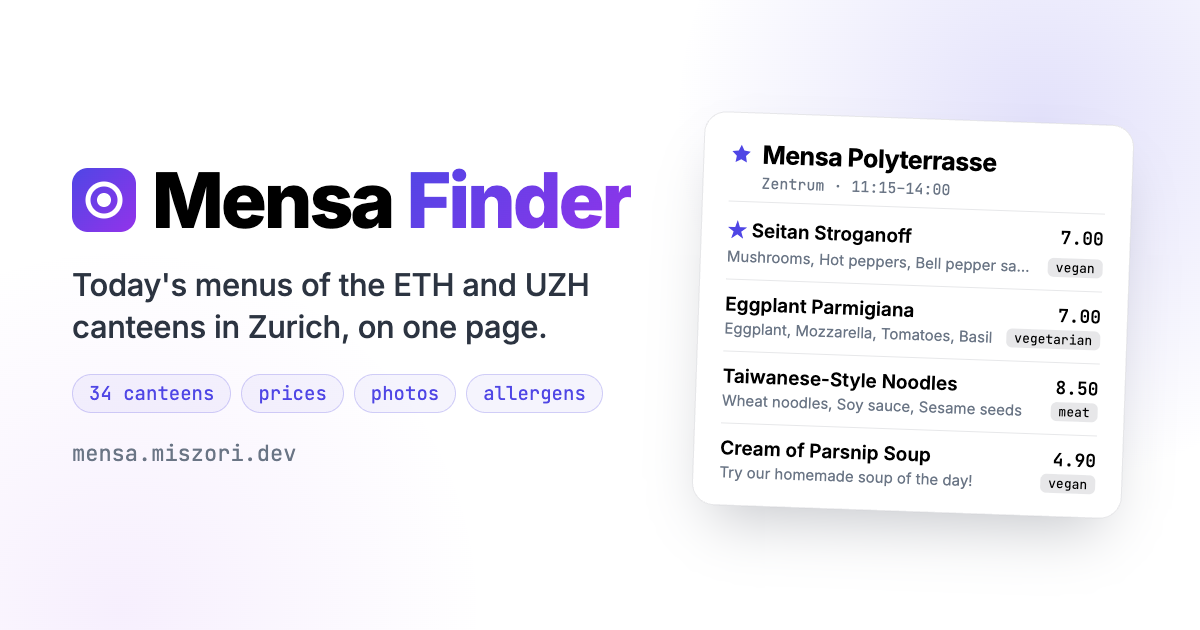
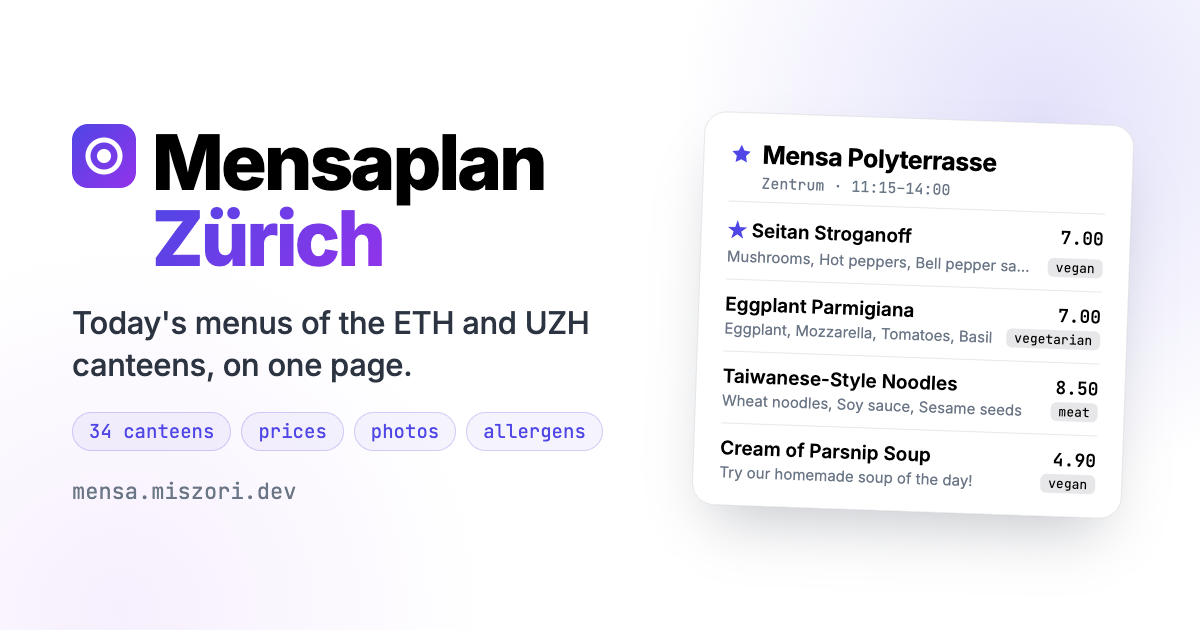
feat!: rebrand as Mensaplan Zürich
- New name in the header (with the plate icon), page title, link-preview
  image, README and demo GIF
- Go module, binary and Docker service renamed to mensaplan; Caddy proxies
  to mensaplan:8080 and FOOD2050 sees User-Agent Mensaplan/1.0
- The settings cookie is now "mp", so saved settings reset once

BREAKING CHANGE: the Docker service is renamed; deploy with
`docker compose up --build -d --remove-orphans`.

diff --git a/internal/web/static/app.js b/internal/web/static/app.js
@@ -1,11 +1,11 @@
-// Mensa Finder in the browser.
+// Mensaplan Zürich in the browser.
 //
 // The server already renders the whole page with every menu of the day. This script only:
 //   1. filters instantly (search, lunch/dinner, and the diet, campus, allergen and "open now"
 //      settings) by hiding elements,
 //   2. opens one dish at a time, animated, centred on screen, with its photo large,
 //   3. applies settings the moment they change and saves them, with favourites and starred
-//      dishes, in the "mf" cookie, which the server reads on the next page load
+//      dishes, in the "mp" cookie, which the server reads on the next page load
 //      (see internal/web/settings.go).
 (() => {
   'use strict';
@@ -20,7 +20,7 @@
   // ---------- the settings cookie ----------
 
   function readSettings() {
-    const match = document.cookie.match(/(?:^|;\s*)mf=([^;]*)/);
+    const match = document.cookie.match(/(?:^|;\s*)mp=([^;]*)/);
     try {
       return match ? JSON.parse(decodeURIComponent(match[1])) : {};
     } catch {
@@ -30,7 +30,7 @@
 
   function saveSettings() {
     const year = 60 * 60 * 24 * 400;
-    document.cookie = `mf=${encodeURIComponent(JSON.stringify(settings))}; path=/; max-age=${year}; samesite=lax`;
+    document.cookie = `mp=${encodeURIComponent(JSON.stringify(settings))}; path=/; max-age=${year}; samesite=lax`;
   }
 
   const settings = readSettings();
@@ -547,8 +547,8 @@
     closeSettings();
   });
   try {
-    if (sessionStorage.getItem('mf-settings-open')) {
-      sessionStorage.removeItem('mf-settings-open');
+    if (sessionStorage.getItem('mp-settings-open')) {
+      sessionStorage.removeItem('mp-settings-open');
       dialog.showModal(); // no animation: it was already open before the reload
     }
   } catch { /* storage unavailable: the sheet just stays closed */ }
@@ -570,7 +570,7 @@
     price: showPrices,
     theme: showTheme,
     lang: () => {
-      try { sessionStorage.setItem('mf-settings-open', '1'); } catch { /* see above */ }
+      try { sessionStorage.setItem('mp-settings-open', '1'); } catch { /* see above */ }
       location.reload();
     },
     star: () => {}, // handled below

diff --git a/docs/og-image.html b/docs/og-image.html
@@ -21,7 +21,7 @@ body {
   background: radial-gradient(circle, rgba(79, 70, 229, 0.16), transparent 68%); }
 .glow.b { top: auto; right: auto; bottom: -360px; left: -260px; background: radial-gradient(circle, rgba(147, 51, 234, 0.08), transparent 68%); }
 .left { position: relative; flex: 1; display: flex; flex-direction: column; gap: 26px; }
-.logo { display: flex; align-items: center; gap: 16px; }
+.logo { display: flex; align-items: flex-start; gap: 16px; }
 .logo svg { width: 64px; height: 64px; }
 h1 { font-size: 76px; font-weight: 800; letter-spacing: -0.035em; line-height: 1; }
 h1 span { background: linear-gradient(135deg, var(--accent), var(--end)); -webkit-background-clip: text; background-clip: text; color: transparent; }
@@ -51,9 +51,9 @@ h1 span { background: linear-gradient(135deg, var(--accent), var(--end)); -webki
 <div class="left">
   <div class="logo">
     <svg viewBox="0 0 32 32"><defs><linearGradient id="g" x1="0" y1="0" x2="1" y2="1"><stop offset="0" stop-color="#4f46e5"/><stop offset="1" stop-color="#9333ea"/></linearGradient></defs><rect width="32" height="32" rx="8" fill="url(#g)"/><circle cx="16" cy="16" r="8" fill="none" stroke="#fff" stroke-width="2.5"/><circle cx="16" cy="16" r="3.5" fill="#fff"/></svg>
-    <h1>Mensa <span>Finder</span></h1>
+    <h1>Mensaplan<br><span>Zürich</span></h1>
   </div>
-  <p class="lede">Today's menus of the ETH and UZH canteens in Zurich, on one page.</p>
+  <p class="lede">Today's menus of the ETH and UZH canteens, on one page.</p>
   <div class="pills"><span class="pill">34 canteens</span><span class="pill">prices</span><span class="pill">photos</span><span class="pill">allergens</span></div>
   <p class="url">mensa.miszori.dev</p>
 </div>

diff --git a/internal/web/templates/page.html b/internal/web/templates/page.html
@@ -14,14 +14,14 @@
   <!-- How the link looks when shared in a message or post (Open Graph, also read by
        iMessage, WhatsApp, Slack, Telegram, ...). -->
   <meta property="og:type" content="website">
-  <meta property="og:site_name" content="Mensa Finder">
+  <meta property="og:site_name" content="Mensaplan Zürich">
   <meta property="og:title" content="{{call .T "pageTitle"}}">
   <meta property="og:description" content="{{call .T "pageDescription"}}">
   <meta property="og:url" content="{{.SiteURL}}/">
   <meta property="og:image" content="{{.SiteURL}}/static/og.png?v={{.Version}}">
   <meta property="og:image:width" content="1200">
   <meta property="og:image:height" content="630">
-  <meta property="og:image:alt" content="Mensa Finder: the menus of ETH and UZH canteens in Zurich on one page">
+  <meta property="og:image:alt" content="Mensaplan Zürich: the menus of ETH and UZH canteens in Zurich on one page">
   <meta property="og:locale" content="{{if eq .Lang "de"}}de_CH{{else}}en_US{{end}}">
   <meta name="twitter:card" content="summary_large_image">
   <link rel="stylesheet" href="/static/app.css?v={{.Version}}">
@@ -37,7 +37,7 @@
 
 <div class="container">
   <header class="site-header">
-    <a class="brand" href="/">Mensa <span>Finder</span></a>
+    <a class="brand" href="/"><img src="/static/icon.svg" width="26" height="26" alt=""><span class="name">Mensaplan <span>Zürich</span></span></a>
     <button class="icon-btn" type="button" id="open-settings" aria-label="{{call .T "settings"}}"><svg><use href="#i-settings"/></svg></button>
   </header>
 </div>

diff --git a/internal/web/static/app.css b/internal/web/static/app.css
@@ -1,4 +1,4 @@
-/* Mensa Finder styles, built on the miszori.dev design system tokens. */
+/* Mensaplan Zürich styles, built on the miszori.dev design system tokens. */
 
 @font-face {
   font-family: 'Inter Variable';
@@ -85,8 +85,9 @@ button { cursor: pointer; }
   display: flex; align-items: center; justify-content: space-between; gap: 12px;
   padding: 16px 0 8px;
 }
-.brand { font-weight: 800; font-size: 1.35rem; letter-spacing: -0.02em; text-decoration: none; color: var(--text); }
-.brand span {
+.brand { display: flex; align-items: center; gap: 8px; font-weight: 800; font-size: 1.35rem; letter-spacing: -0.02em; text-decoration: none; color: var(--text); }
+.brand img { flex-shrink: 0; }
+.brand .name span {
   background: linear-gradient(135deg, var(--accent), var(--gradient-end));
   -webkit-background-clip: text; background-clip: text; -webkit-text-fill-color: transparent;
 }

diff --git a/main.go b/main.go
@@ -1,4 +1,4 @@
-// Mensa Finder: the menus of the ETH, UZH and other canteens in Zurich (and Basel), on one page.
+// Mensaplan Zürich: the menus of the ETH, UZH and other canteens in Zurich (and Basel), on one page.
 //
 // This file wires the parts together:
 //
@@ -16,7 +16,7 @@
 //	DATA_DIR      where menus and photo thumbnails are kept (default "./data")
 //	REFRESH_EVERY how often menus are re-fetched (default "1h")
 //
-// "mensafinder healthcheck" asks a running instance whether it is up (used by Docker, whose
+// "mensaplan healthcheck" asks a running instance whether it is up (used by Docker, whose
 // minimal image has no curl).
 package main
 
@@ -34,13 +34,13 @@ import (
 	"time"
 	_ "time/tzdata" // include the time zone database, so Europe/Zurich works in any container
 
-	"mensafinder/internal/catalog"
-	"mensafinder/internal/eth"
-	"mensafinder/internal/food2050"
-	"mensafinder/internal/menu"
-	"mensafinder/internal/photos"
-	"mensafinder/internal/refresh"
-	"mensafinder/internal/web"
+	"mensaplan/internal/catalog"
+	"mensaplan/internal/eth"
+	"mensaplan/internal/food2050"
+	"mensaplan/internal/menu"
+	"mensaplan/internal/photos"
+	"mensaplan/internal/refresh"
+	"mensaplan/internal/web"
 )
 
 func main() {
@@ -123,7 +123,7 @@ func run(log *slog.Logger) error {
 		close(shutdownDone)
 	}()
 
-	log.Info("Mensa Finder listening", "addr", addr, "data", dataDir)
+	log.Info("Mensaplan Zürich listening", "addr", addr, "data", dataDir)
 	if err := server.ListenAndServe(); !errors.Is(err, http.ErrServerClosed) {
 		return err
 	}

diff --git a/internal/web/i18n.go b/internal/web/i18n.go
@@ -10,7 +10,7 @@ import (
 var texts = map[string]map[string]string{
 	"en": {
 		"search":          "Search dishes",
-		"pageTitle":       "Mensa Finder: ETH and UZH menus in Zurich",
+		"pageTitle":       "Mensaplan Zürich",
 		"pageDescription": "Today's menus of 34 canteens at ETH, UZH and around Zurich on one page, with prices, photos and allergens. Filter for vegetarian and vegan, star your favourites.",
 		"settings":        "Settings",
 		"close":           "Close",
@@ -62,7 +62,7 @@ var texts = map[string]map[string]string{
 	},
 	"de": {
 		"search":          "Gerichte suchen",
-		"pageTitle":       "Mensa Finder: Menüs der ETH- und UZH-Mensen in Zürich",
+		"pageTitle":       "Mensaplan Zürich",
 		"pageDescription": "Die heutigen Menüs von 34 Mensen der ETH, UZH und in Zürich auf einer Seite, mit Preisen, Fotos und Allergenen. Vegetarisch und vegan filtern, Favoriten markieren.",
 		"settings":        "Einstellungen",
 		"close":           "Schliessen",

diff --git a/internal/web/settings.go b/internal/web/settings.go
@@ -7,13 +7,13 @@ import (
 	"slices"
 	"strings"
 
-	"mensafinder/internal/menu"
+	"mensaplan/internal/menu"
 )
 
 // cookieName is the cookie that holds a visitor's settings. There are no accounts: settings
 // live only in the visitor's browser. app.js writes the cookie, the server reads it to render
 // the page in the visitor's language, with their prices, favourites first, and so on.
-const cookieName = "mf"
+const cookieName = "mp"
 
 // Settings is the cookie's content, stored as URL-encoded JSON.
 type Settings struct {

diff --git a/internal/web/server.go b/internal/web/server.go
@@ -1,4 +1,4 @@
-// Package web serves the Mensa Finder website: one HTML page rendered on every request from
+// Package web serves the Mensaplan Zürich website: one HTML page rendered on every request from
 // the current menus, plus its CSS, JavaScript, fonts and dish photos.
 package web
 
@@ -17,8 +17,8 @@ import (
 	"strings"
 	"time"
 
-	"mensafinder/internal/catalog"
-	"mensafinder/internal/menu"
+	"mensaplan/internal/catalog"
+	"mensaplan/internal/menu"
 )
 
 //go:embed templates static

diff --git a/internal/food2050/food2050.go b/internal/food2050/food2050.go
@@ -20,7 +20,7 @@ import (
 	"strings"
 	"time"
 
-	"mensafinder/internal/menu"
+	"mensaplan/internal/menu"
 )
 
 // Client fetches pages. Use New.
@@ -192,7 +192,7 @@ func (c *Client) fetch(ctx context.Context, pageURL string) (*nextData, error) {
 	if err != nil {
 		return nil, err
 	}
-	req.Header.Set("User-Agent", "MensaFinder/1.0")
+	req.Header.Set("User-Agent", "Mensaplan/1.0")
 	resp, err := c.http.Do(req)
 	if err != nil {
 		return nil, err

diff --git a/internal/refresh/refresh.go b/internal/refresh/refresh.go
@@ -15,11 +15,11 @@ import (
 	"sync"
 	"time"
 
-	"mensafinder/internal/catalog"
-	"mensafinder/internal/eth"
-	"mensafinder/internal/food2050"
-	"mensafinder/internal/menu"
-	"mensafinder/internal/photos"
+	"mensaplan/internal/catalog"
+	"mensaplan/internal/eth"
+	"mensaplan/internal/food2050"
+	"mensaplan/internal/menu"
+	"mensaplan/internal/photos"
 )
 
 // Refresher holds everything a refresh needs.

diff --git a/internal/eth/eth.go b/internal/eth/eth.go
@@ -15,7 +15,7 @@ import (
 	"strings"
 	"time"
 
-	"mensafinder/internal/menu"
+	"mensaplan/internal/menu"
 )
 
 // BaseURL is the API root. clientID is the identification ETH's own website sends; the API

diff --git a/README.md b/README.md
@@ -1,7 +1,7 @@
-# Mensa Finder
+# Mensaplan Zürich
 
-Mensa Finder shows the menus of the ETH, UZH and other canteens in Zurich (and ETH Basel) on
-one page, with prices, photos and allergens. It started as *UniEats* at VISCon Hackathon 2026
+Mensaplan Zürich shows the menus of the ETH, UZH and other canteens in the city (and ETH Basel)
+on one page, with prices, photos and allergens. It started as *UniEats* at VISCon Hackathon 2026
 (team VISard Lizards). It was then rewritten from scratch as one small Go program with no
 database and no accounts. The code was written with AI under my direction.
 
@@ -50,11 +50,11 @@ go test ./...
 ## How it works
 
 ```
-                                                  every hour
-Browser ─► proxy ─► Caddy (HTTPS) ─► Mensa Finder ◄──────────── ETH menu API
-                                     (Go, one binary)  ◄─────── app.food2050.ch (UZH and other ZFV canteens)
-                                           │
-                                           └─ data/menus.json, data/photos/
+                                                      every hour
+Browser ─► proxy ─► Caddy (HTTPS) ─► Mensaplan Zürich ◄──────────── ETH menu API
+                                     (Go, one binary) ◄──────────── app.food2050.ch (UZH and other ZFV canteens)
+                                            │
+                                            └─ data/menus.json, data/photos/
 ```
 
 1. **Fetching.** On start and every hour, the program asks both sources for the current week and
@@ -92,7 +92,7 @@ makes it the address to watch with an uptime monitor.
 Everything runs in Docker on one server, behind the shared
 [webserver-proxy](https://github.com/gmiszori/webserver-proxy). The proxy owns ports 80 and 443
 and passes this domain's traffic to Caddy without decrypting it. Caddy gets and renews the HTTPS
-certificate by itself and passes requests on to Mensa Finder. Neither is reachable from outside
+certificate by itself and passes requests on to Mensaplan Zürich. Neither is reachable from outside
 except through the proxy.
 
 1. Point the domain's DNS A (and AAAA) record at the server.
